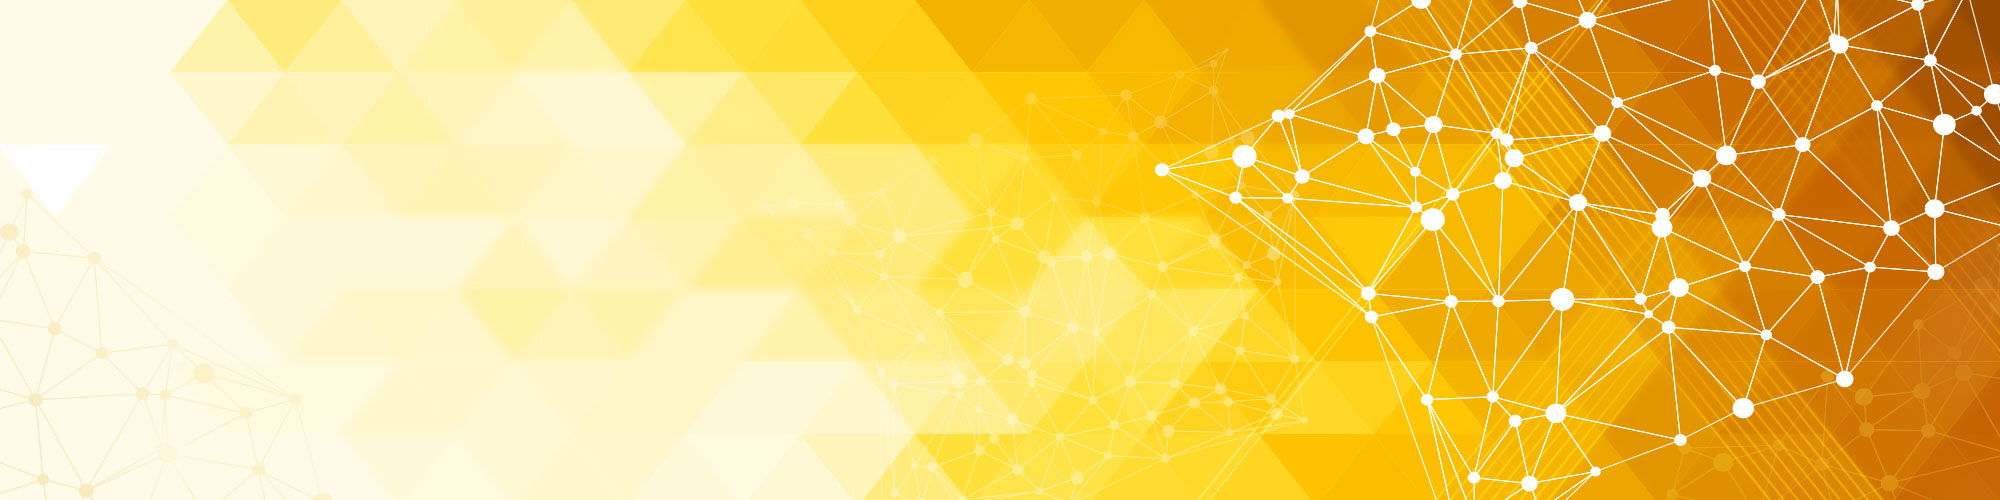
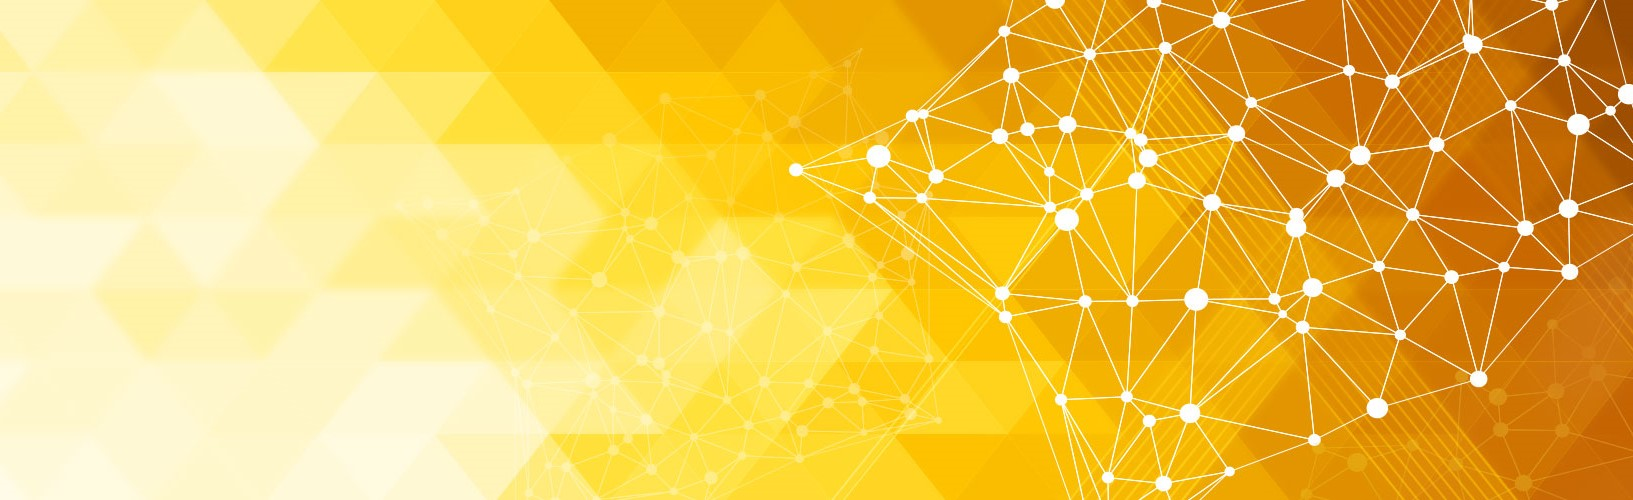
workexp

diff --git a/styles.css b/styles.css
@@ -9,17 +9,17 @@ body {
    
     background-image: url("img/original.jpg");
     height: 50% ;
-    position:relative;
-    background-size: cover;
+    position:fixed;
+    background-size:inherit;
     
 }
 
 .inner-container {
-    color:teal;
+    color:black;
     margin-top: 100px;
     width: 100%;
-    text-align: center;
-    padding: 0 100px;
+    text-align:left;
+    font-size: large;
 }
 .aboutme {
     text-align: center;

diff --git a/index.html b/index.html
@@ -11,7 +11,7 @@
     <div class="banner">
         <div class="inner-container">
             <h1>Gurpreet Kaur</h1>
-            <h2>Welcome to my portfolio webiste!</h2>
+            <h2>Welcome to my portfolio website!</h2>
              <!--  <img class="banner-img" src="img/original.jpg"> -->
         </div>
     </div>
